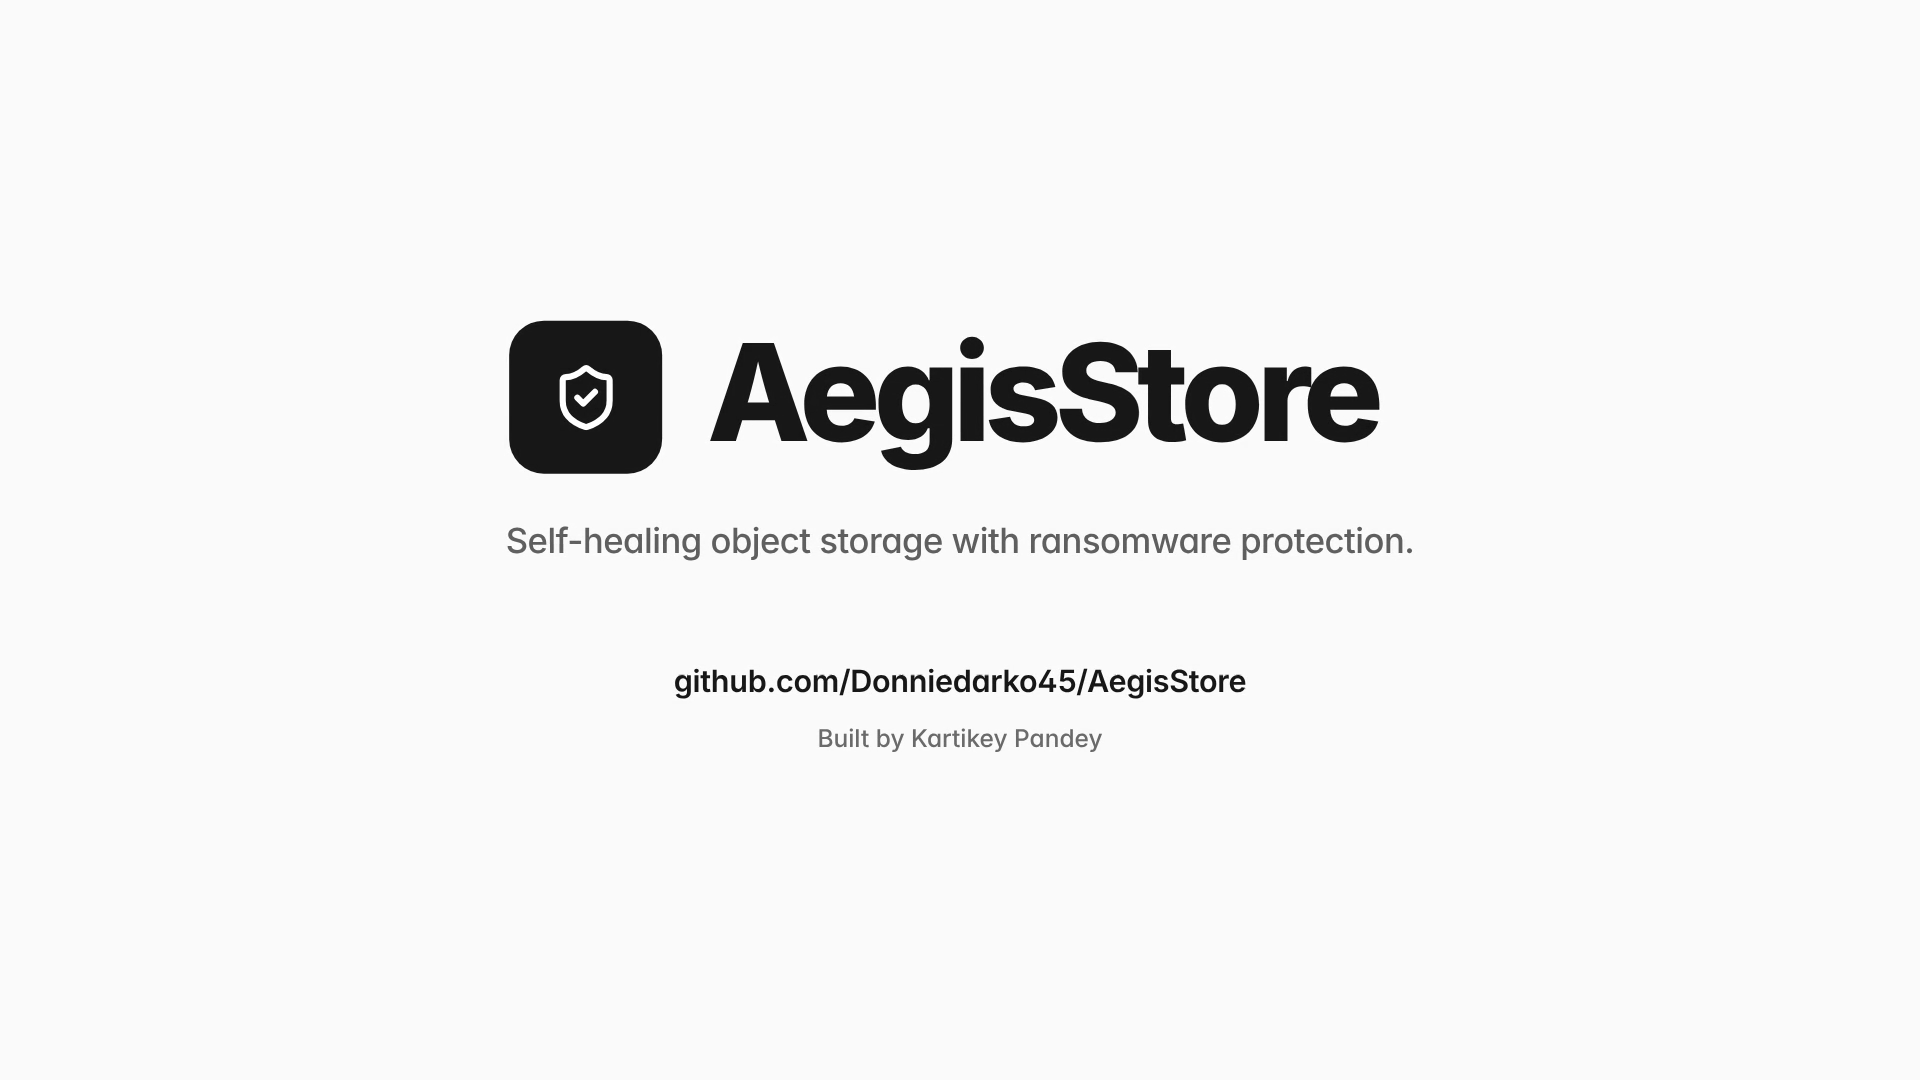
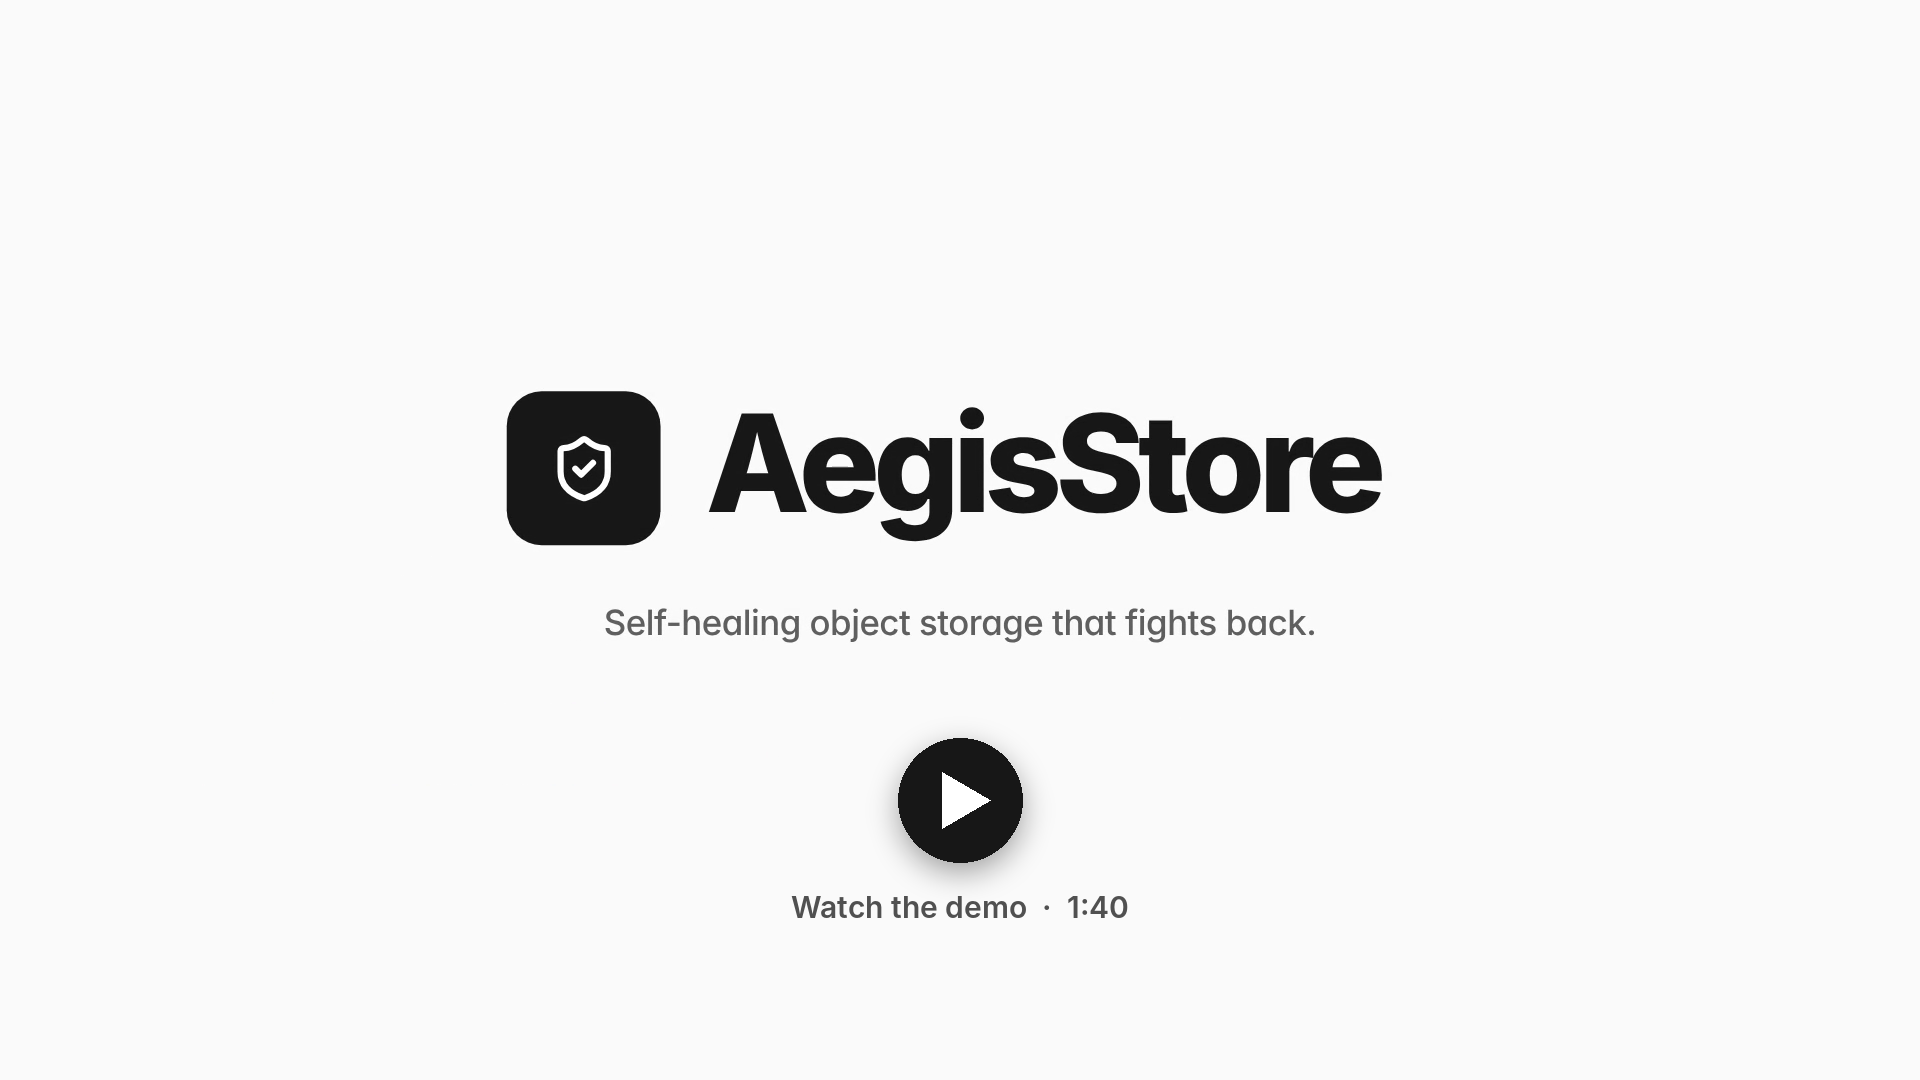
docs: link the showcase video from the README
Adds a Demo section with a clickable thumbnail that opens the video, and
a play-button poster for it.

Changed region(s): [[0.25, 0.275, 0.75, 0.5194], [0.3125, 0.55, 0.6875, 0.6417], [0.4062, 0.6722, 0.5938, 0.8556]]

diff --git a/README.md b/README.md
@@ -16,6 +16,12 @@ Browser ──> nginx :8080 (React dashboard + /api proxy)
 
 The full design, from requirements and data model to failure handling and the roadmap, is in [`docs/ARCHITECTURE.md`](docs/ARCHITECTURE.md).
 
+## Demo
+
+[![Watch the AegisStore demo (1:40)](docs/media/aegisstore-showcase-poster.png)](docs/media/aegisstore-showcase.mp4)
+
+A 1:40 walkthrough recorded on the running system: upload and placement on the hash ring, a crashed node detected and healed, a corrupt replica repaired, a failing node flagged by its risk score, and a ransomware drill recovered in one click. Click the image to watch or download the video ([`docs/media/aegisstore-showcase.mp4`](docs/media/aegisstore-showcase.mp4)).
+
 ## Quick start
 
 Requirements: Docker with Compose v2.
